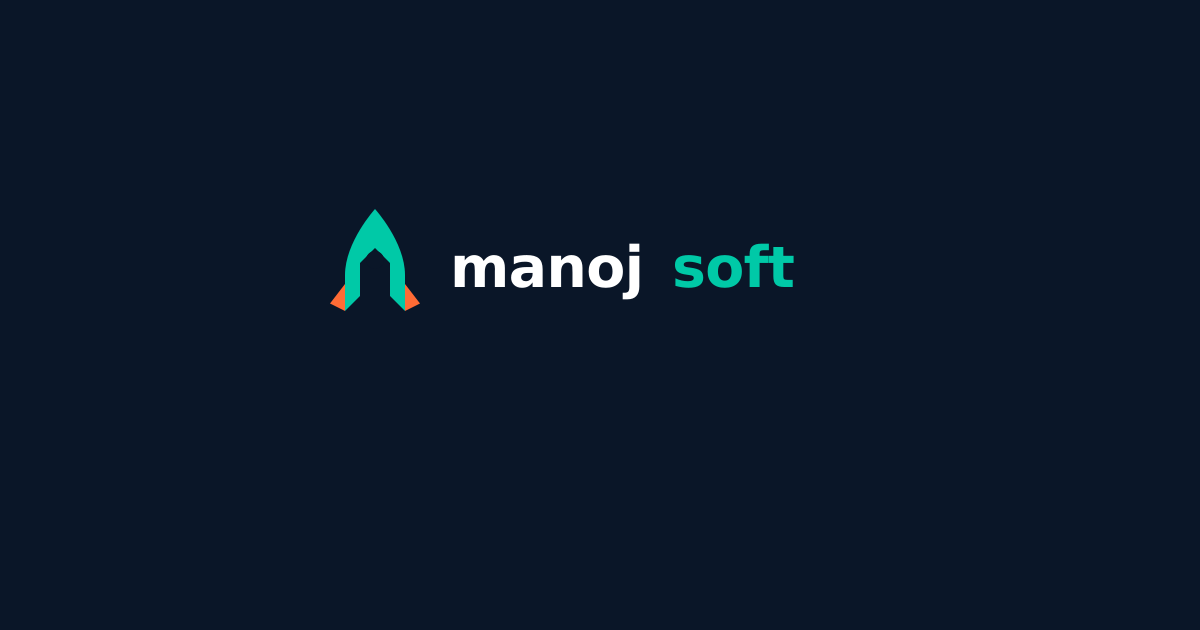
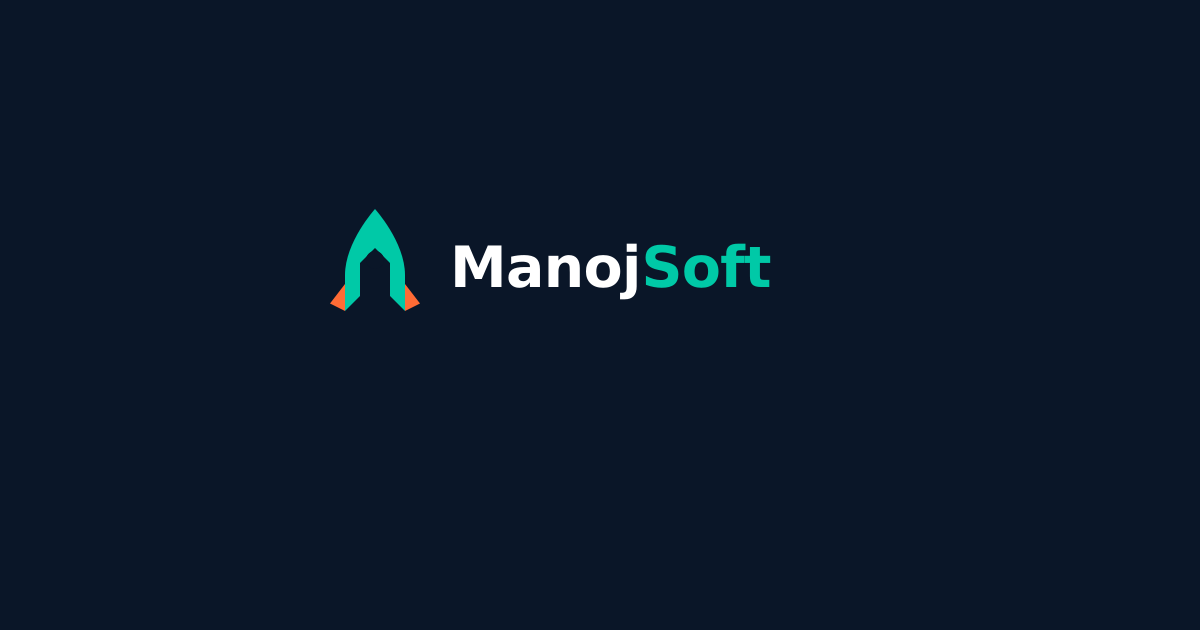
Fix branding: ManojSoft (capital M, capital S, no space)

Changed region(s): [[0.37, 0.3619, 0.6783, 0.4825]]

diff --git a/index.html b/index.html
@@ -218,7 +218,7 @@ footer{background:var(--navy-light);color:var(--gray-400);padding:3rem 0 1.5rem}
 <!-- NAV -->
 <nav id="navbar">
   <div class="container">
-    <a href="#" class="nav-logo"><svg width="28" height="34" viewBox="0 0 100 100" style="vertical-align:middle;margin-right:4px"><path d="M50 6C50 6 25 32 25 58V86L38 74V50L50 38L62 50V74L75 86V58C75 32 50 6 50 6Z" fill="#00C9A7"/><path d="M25 86L12 80L25 64Z" fill="#FF6B35"/><path d="M75 86L88 80L75 64Z" fill="#FF6B35"/><circle cx="50" cy="46" r="8" fill="#0A1628"/></svg>manoj<span>soft</span></a>
+    <a href="#" class="nav-logo"><svg width="28" height="34" viewBox="0 0 100 100" style="vertical-align:middle;margin-right:4px"><path d="M50 6C50 6 25 32 25 58V86L38 74V50L50 38L62 50V74L75 86V58C75 32 50 6 50 6Z" fill="#00C9A7"/><path d="M25 86L12 80L25 64Z" fill="#FF6B35"/><path d="M75 86L88 80L75 64Z" fill="#FF6B35"/><circle cx="50" cy="46" r="8" fill="#0A1628"/></svg>Manoj<span>Soft</span></a>
     <div class="nav-links" id="navLinks">
       <a href="#services">Services</a>
       <a href="#how">How It Works</a>
@@ -465,7 +465,7 @@ footer{background:var(--navy-light);color:var(--gray-400);padding:3rem 0 1.5rem}
   <div class="container">
     <div class="footer-grid">
       <div class="footer-brand">
-        <a href="#" class="nav-logo" style="margin-bottom:.5rem"><svg width="28" height="34" viewBox="0 0 100 100" style="vertical-align:middle;margin-right:4px"><path d="M50 6C50 6 25 32 25 58V86L38 74V50L50 38L62 50V74L75 86V58C75 32 50 6 50 6Z" fill="#00C9A7"/><path d="M25 86L12 80L25 64Z" fill="#FF6B35"/><path d="M75 86L88 80L75 64Z" fill="#FF6B35"/><circle cx="50" cy="46" r="8" fill="#0A1628"/></svg>manoj<span>soft</span></a>
+        <a href="#" class="nav-logo" style="margin-bottom:.5rem"><svg width="28" height="34" viewBox="0 0 100 100" style="vertical-align:middle;margin-right:4px"><path d="M50 6C50 6 25 32 25 58V86L38 74V50L50 38L62 50V74L75 86V58C75 32 50 6 50 6Z" fill="#00C9A7"/><path d="M25 86L12 80L25 64Z" fill="#FF6B35"/><path d="M75 86L88 80L75 64Z" fill="#FF6B35"/><circle cx="50" cy="46" r="8" fill="#0A1628"/></svg>Manoj<span>Soft</span></a>
         <p>Technology services and expert talent platform. Build it. Secure it. Hire for it.</p>
       </div>
       <div class="footer-col">
